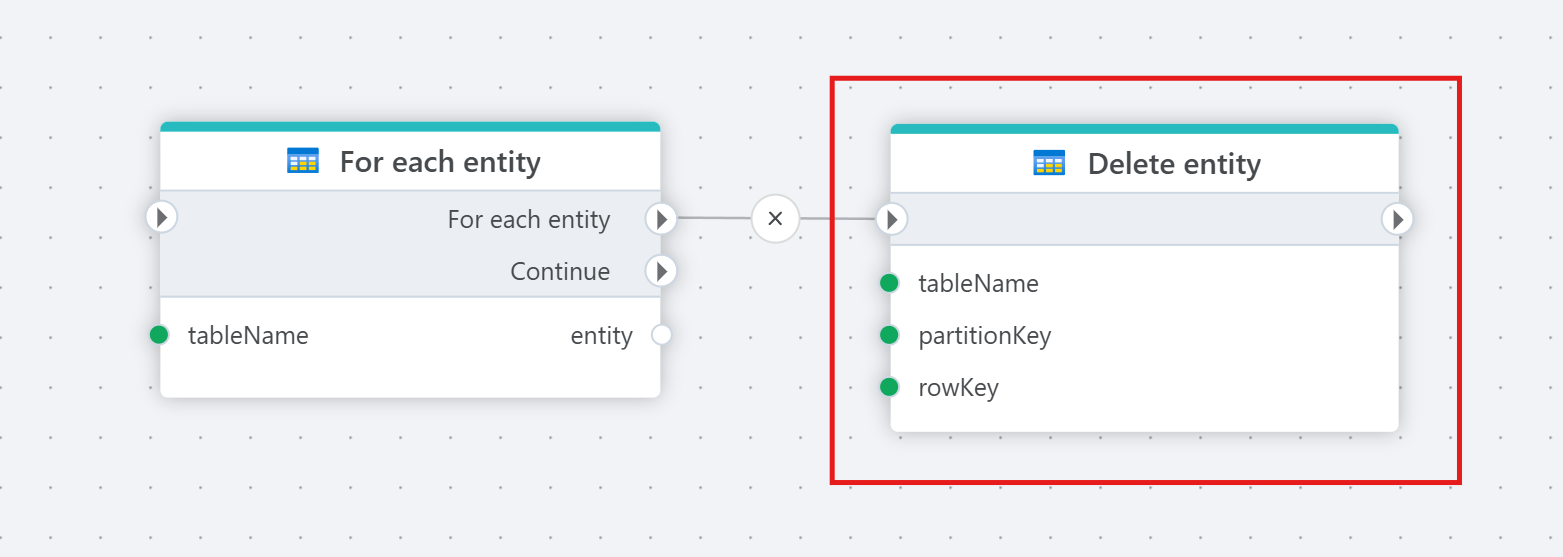
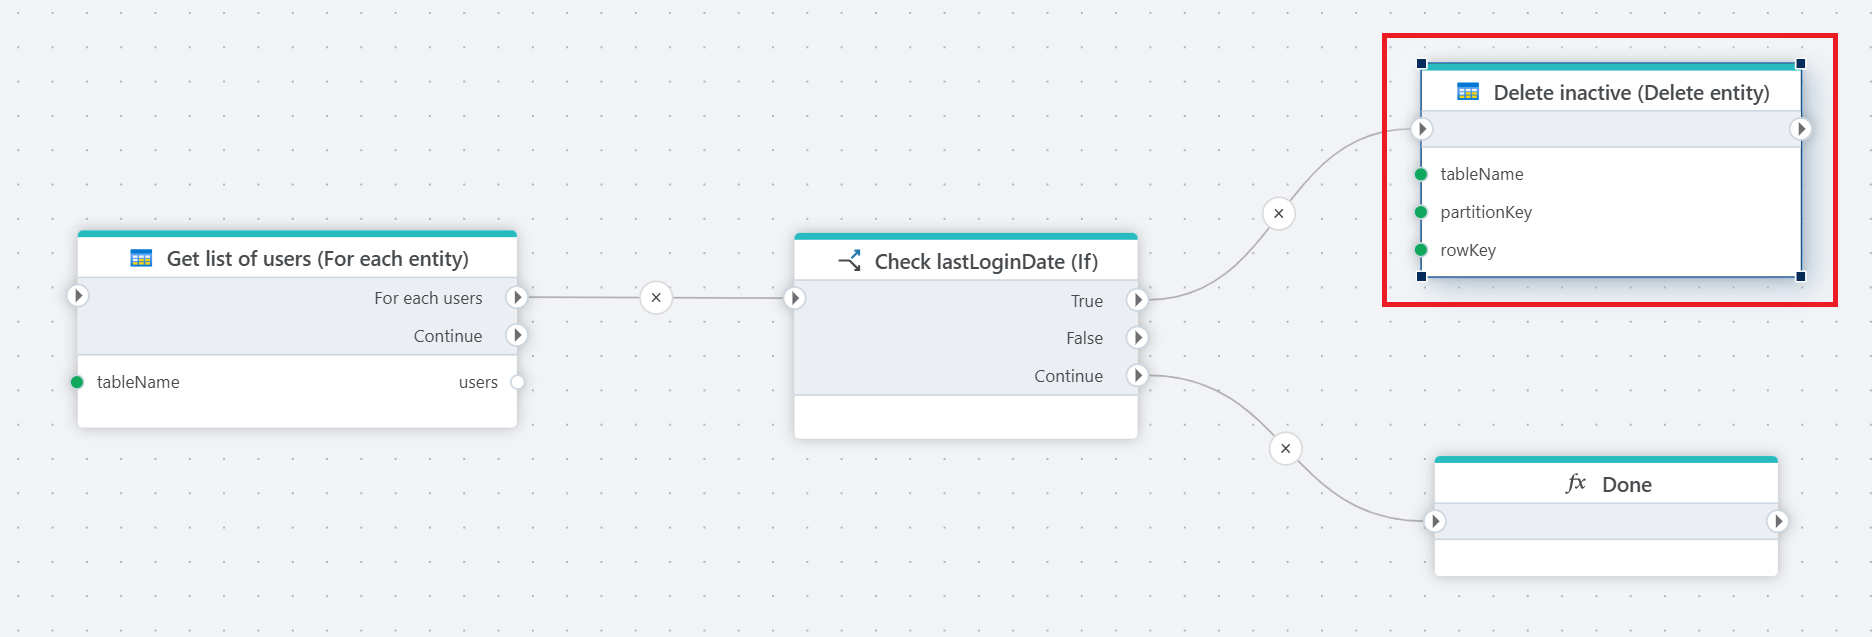
azure s bus azute table storage better examples

diff --git a/articles/flow/actions/azure-table-storage/foreach-table-entity.md b/articles/flow/actions/azure-table-storage/foreach-table-entity.md
@@ -1,8 +1,14 @@
-# For each Table Entity
+# For each Entity
 
 Iterates over a list of all entities in an Azure table. 
 
 ![img](../../../../images/flow/foreach-table-entity.png)
+
+
+**Example** ![img](../../../../images/strz.jpg)  
+This flow iterates through each employee in an Azure Table, checks if they’ve been inactive for over 30 days based on `lastLoginDate`, and [updates](update-table-entity.md) their status to "inactive" if needed. It processes each employee one by one, then ends with a 'Done' step once all are evaluated.
+
+</br>
 
 ## Returns
 

diff --git a/articles/flow/actions/azure-table-storage/update-table-entity.md b/articles/flow/actions/azure-table-storage/update-table-entity.md
@@ -1,8 +1,14 @@
-# Update Table Entity
+# Update Entity
 
 Update an entity in an Azure Table.
 
 ![img](../../../../images/flow/update-table-entity.png)
+
+
+**Example** ![img](../../../../images/strz.jpg)  
+This flow [iterates](foreach-table-entity.md) through each employee in an Azure Table, checks if they’ve been inactive for over 30 days based on `lastLoginDate`, and updates their status to "inactive" if needed. It processes each employee one by one, then ends with a 'Done' step once all are evaluated.
+
+</br>
 
 ## Properties  
 

diff --git a/articles/flow/actions/azure-service-bus/send-message.md b/articles/flow/actions/azure-service-bus/send-message.md
@@ -4,6 +4,12 @@ Sends a message to an [Azure Service Bus](https://learn.microsoft.com/en-us/azur
 
 ![img](https://profitbasedocs.blob.core.windows.net/flowimages/sendmsg.png)
 
+**Example** ![img](../../../../images/strz.jpg)  
+This flow runs daily, reads rows of overdue customer payments from a table, sends each as a JSON message to an Azure Service Bus queue, and logs each sent message.
+
+
+
+
 ## Properties
 
 | Name           | Type     | Description                                      |

diff --git a/articles/flow/actions/azure-table-storage/delete-table-entity.md b/articles/flow/actions/azure-table-storage/delete-table-entity.md
@@ -6,6 +6,12 @@ Delete an entity from an Azure Table.
 
 
 
+**Example** ![img](../../../../images/strz.jpg)  
+This flow [iterates](foreach-table-entity.md) through each employee in an Azure Table, checks if they’ve been inactive for over 12 months based on `lastLoginDate`, and deletes them. It processes each employee one by one, then ends with a 'Done' step once all are evaluated.
+
+</br>
+
+
 ## Properties
 
 | Name                   | Type       | Description                |
